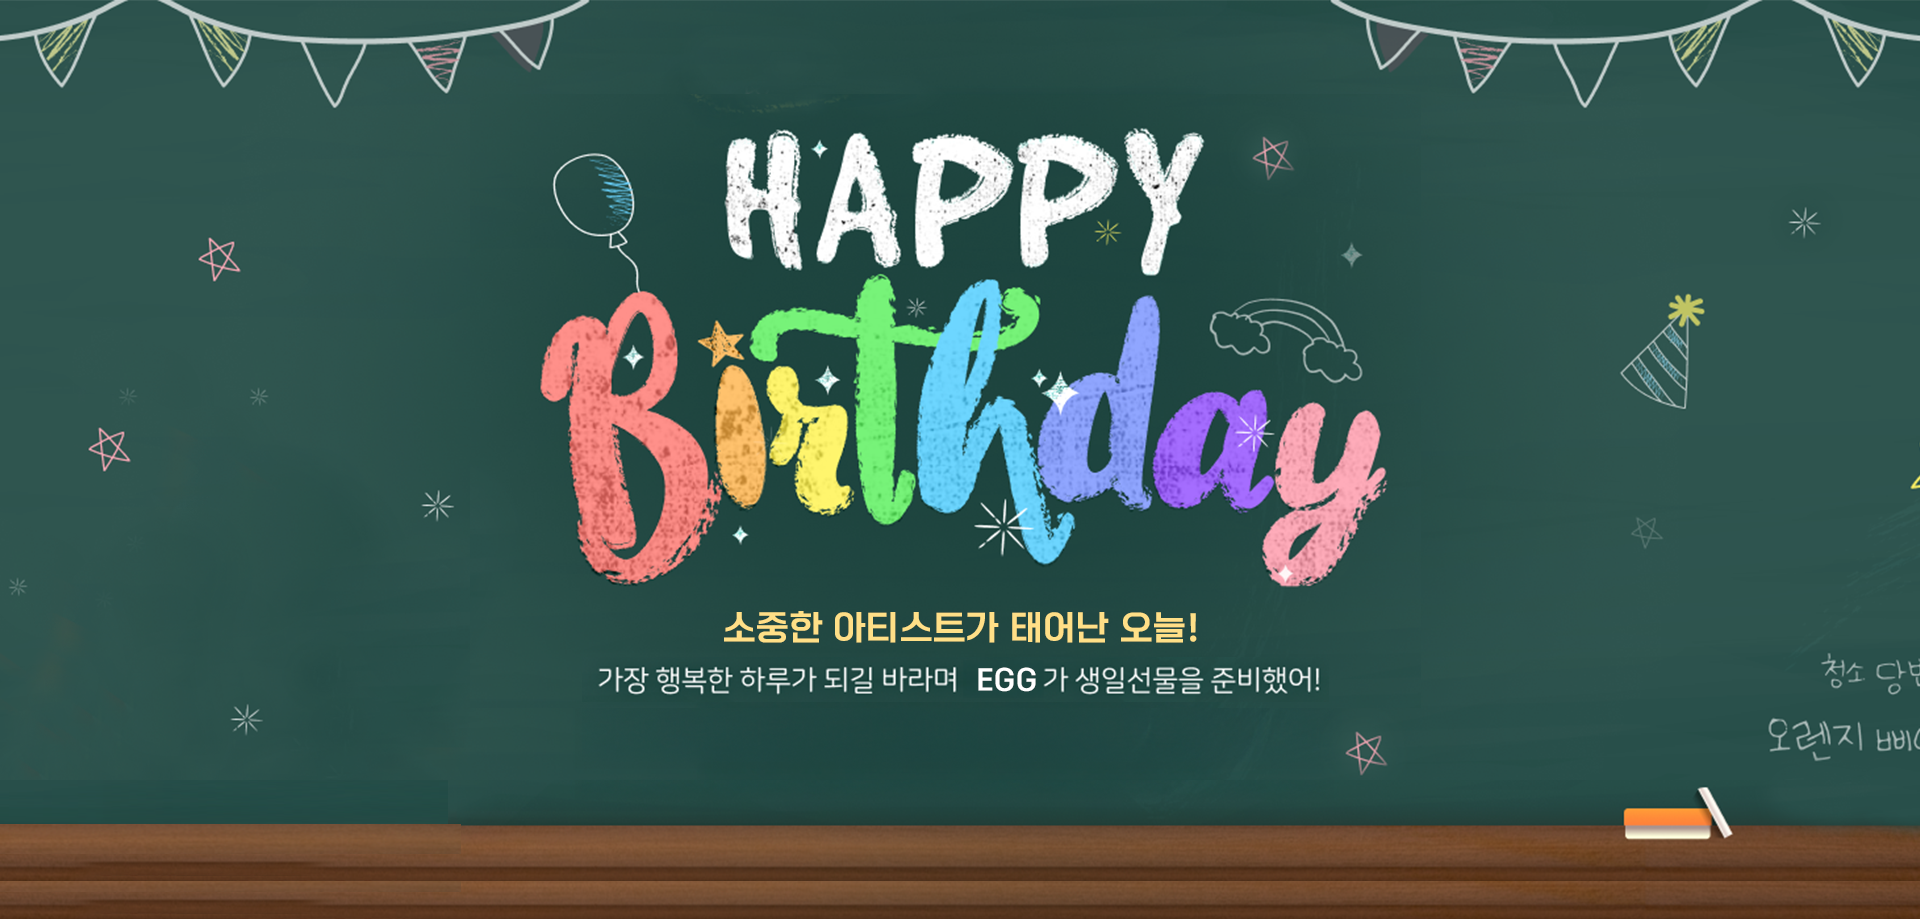
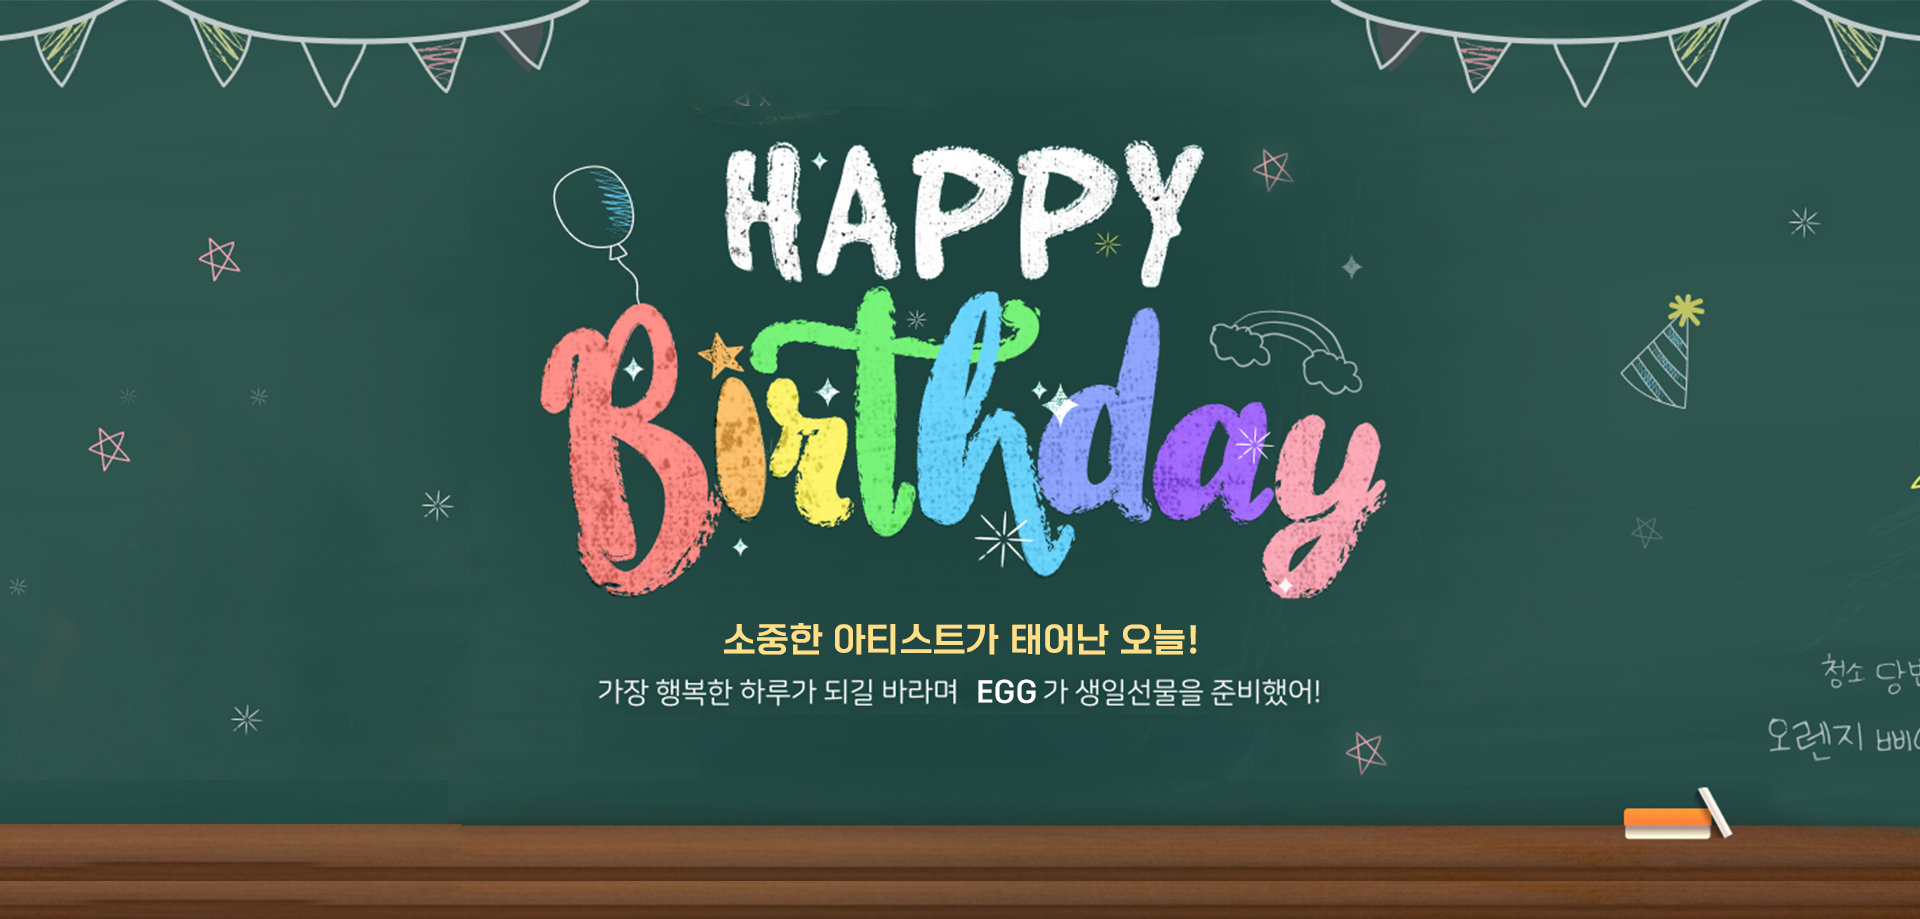
sy

diff --git a/WeverseEgg0.2/src/main/resources/static/css/mainpage.css b/WeverseEgg0.2/src/main/resources/static/css/mainpage.css
@@ -161,7 +161,7 @@ nav:not(:hover) ul li a {
 /* 하단 이벤트 gnb */
 #main_bottom_gnb {
   position: relative;
-  top: -70px;
+  top: -35px;
   left: 260px;
   width: 1120px;
   height: 100px;
@@ -222,7 +222,7 @@ nav:not(:hover) ul li a {
   width: 100%;
   height: auto;
   position: absolute;
-  top: 0;
+  top: 33px;;
   left: 0;
   transition: opacity 0.2s ease-in-out;
 }

diff --git a/WeverseEgg0.2/src/main/java/com/java/controller/CharacterController.java b/WeverseEgg0.2/src/main/java/com/java/controller/CharacterController.java
@@ -10,11 +10,13 @@ import org.springframework.web.bind.annotation.PostMapping;
 import org.springframework.web.bind.annotation.RequestParam;
 
 import com.java.dto.character.CharacterDto;
+import com.java.dto.item.ItemDto;
 import com.java.dto.member.MemberDto;
 import com.java.entity.character.CharacterEntity;
 import com.java.entity.member.MemberEntity;
 import com.java.service.CharacterService;
 import com.java.service.MemberService;
+import com.java.service.ModalService;
 
 import jakarta.servlet.http.HttpSession;
 
@@ -28,6 +30,7 @@ public class CharacterController {
 	CharacterService characterService;
 	@Autowired
 	HttpSession session;
+	@Autowired ModalService modalServiceImpl;
 	
 	// 캐릭터 선택 페이지 열기
 	@GetMapping("/choiceCharacter") 
@@ -44,6 +47,25 @@ public class CharacterController {
         model.addAttribute("list", null);
         
         return "choiceCharacter";
+	}
+	
+	@GetMapping("/modal")
+	public String modal(Model model) {
+		
+		int user_id = (Integer)session.getAttribute("session_userId");
+		// 사용자의 캐릭터 목록 불러오기
+        List<CharacterDto> list = characterService.getCharactersByUserId(user_id);
+        if(list != null) {
+        	model.addAttribute("list", list);
+			return "modal";
+        }
+        model.addAttribute("list", null);
+        
+        List<ItemDto> items = modalServiceImpl.getAllItems();
+		System.out.println(items);
+		model.addAttribute("shopList",items);
+		
+		return "modal";
 	}
 	
 	// 캐릭터 생성시 스토리 페이지

diff --git a/WeverseEgg0.2/src/main/java/com/java/repository/CharacterRepository.java b/WeverseEgg0.2/src/main/java/com/java/repository/CharacterRepository.java
@@ -6,6 +6,7 @@ import org.springframework.data.jpa.repository.JpaRepository;
 import org.springframework.data.jpa.repository.Query;
 import org.springframework.data.repository.query.Param;
 
+import com.java.dto.character.CharacterDto;
 import com.java.entity.character.CharacterEntity;
 
 public interface CharacterRepository extends JpaRepository<CharacterEntity, Integer> {
@@ -19,5 +20,11 @@ public interface CharacterRepository extends JpaRepository<CharacterEntity, Inte
 		       "JOIN an.group g "+
 		       "WHERE g.groupName = :groupName")
 		List<CharacterEntity> findAllByGroupName(@Param("groupName") String GroupKor);
+
+
+
+
+
+
 
 }

diff --git a/WeverseEgg0.2/src/main/java/com/java/controller/FController.java b/WeverseEgg0.2/src/main/java/com/java/controller/FController.java
@@ -56,15 +56,14 @@ public class FController {
 		return "weNoticeView";
 	}
 	
-	@GetMapping("/modal")
-	public String modal(Model model) {
-		
-		List<ItemDto> items = modalServiceImpl.getAllItems();
-		System.out.println(items);
-		model.addAttribute("shopList",items);
-		
-		return "modal";
-	}
+	/*
+	 * @GetMapping("/modal") public String modal(Model model) {
+	 * 
+	 * List<ItemDto> items = modalServiceImpl.getAllItems();
+	 * System.out.println(items); model.addAttribute("shopList",items);
+	 * 
+	 * return "modal"; }
+	 */
 	
 	@GetMapping("/rank") // 랭킹 페이지
 	public String rank() {

diff --git a/WeverseEgg0.2/src/main/java/com/java/service/CharacterService.java b/WeverseEgg0.2/src/main/java/com/java/service/CharacterService.java
@@ -1,5 +1,6 @@
 package com.java.service;
 
+import java.util.ArrayList;
 import java.util.List;
 
 import com.java.dto.character.CharacterDto;
@@ -12,5 +13,9 @@ public interface CharacterService {
 
 	// 캐릭터 생성, 닉네임 저장
 	void save(CharacterEntity character);
+
+
+
+
 
 }

diff --git a/WeverseEgg0.2/src/main/java/com/java/service/CharacterServiceImpl.java b/WeverseEgg0.2/src/main/java/com/java/service/CharacterServiceImpl.java
@@ -39,6 +39,14 @@ public class CharacterServiceImpl implements CharacterService {
 		
 	}
 
+
+
+
+
+
+
+
+
 	
 	
 	
